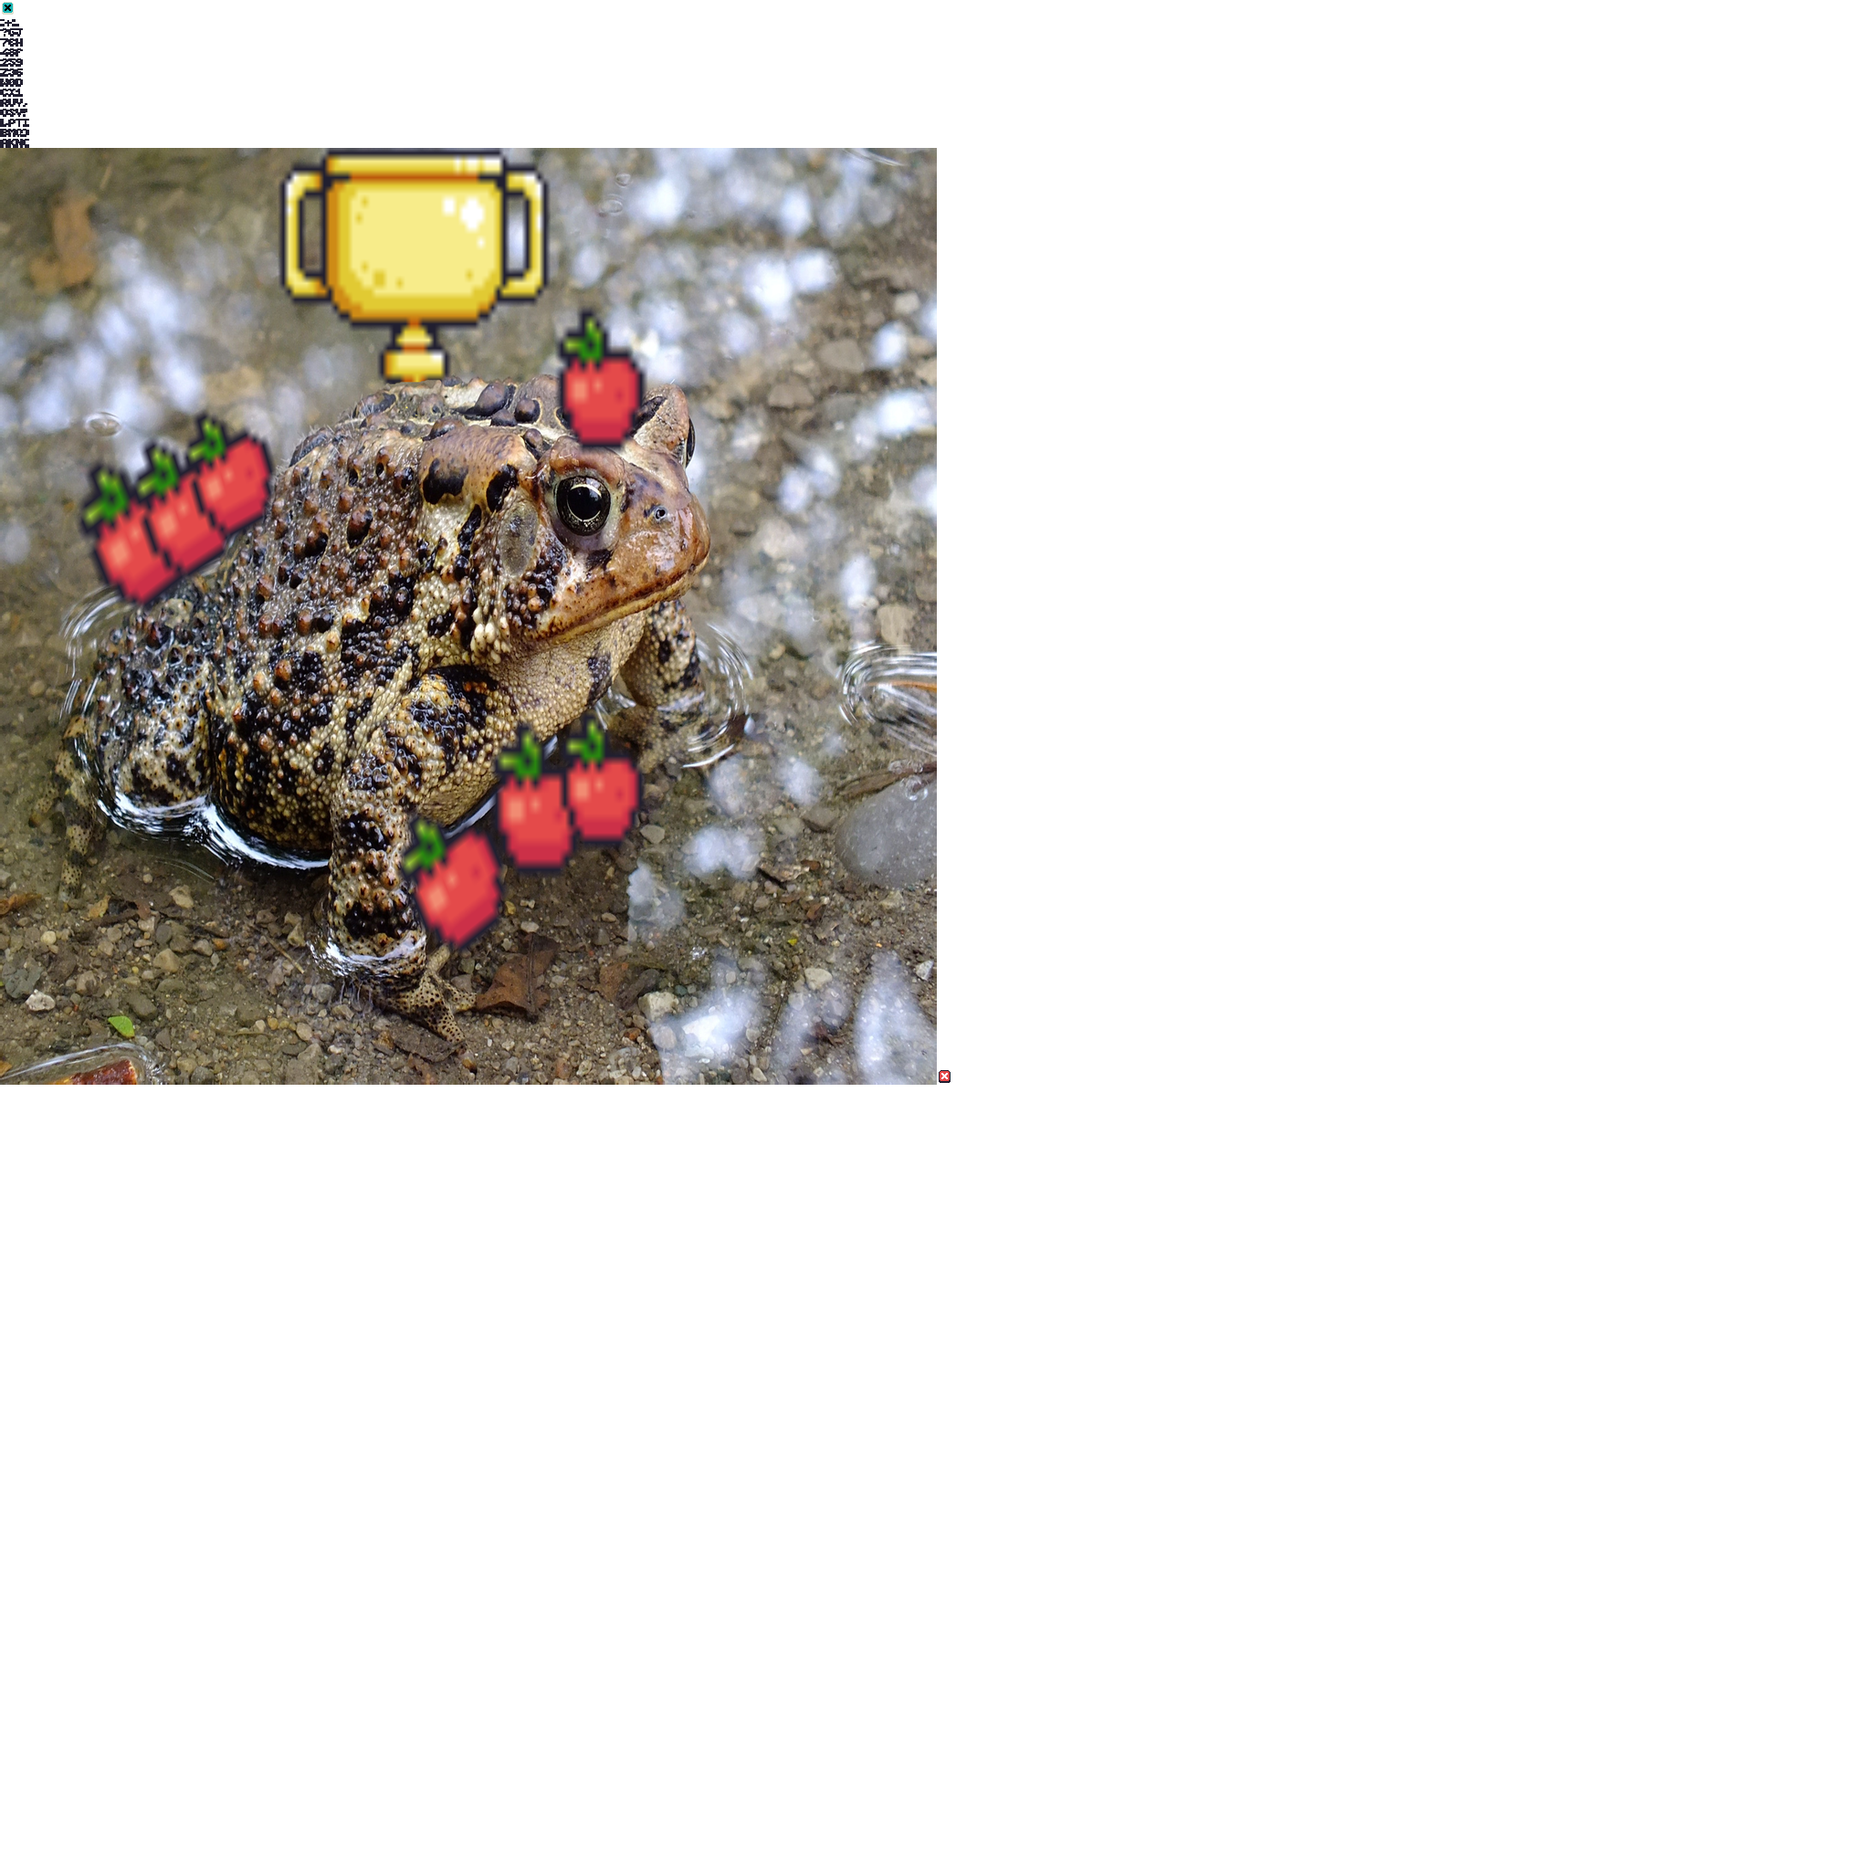
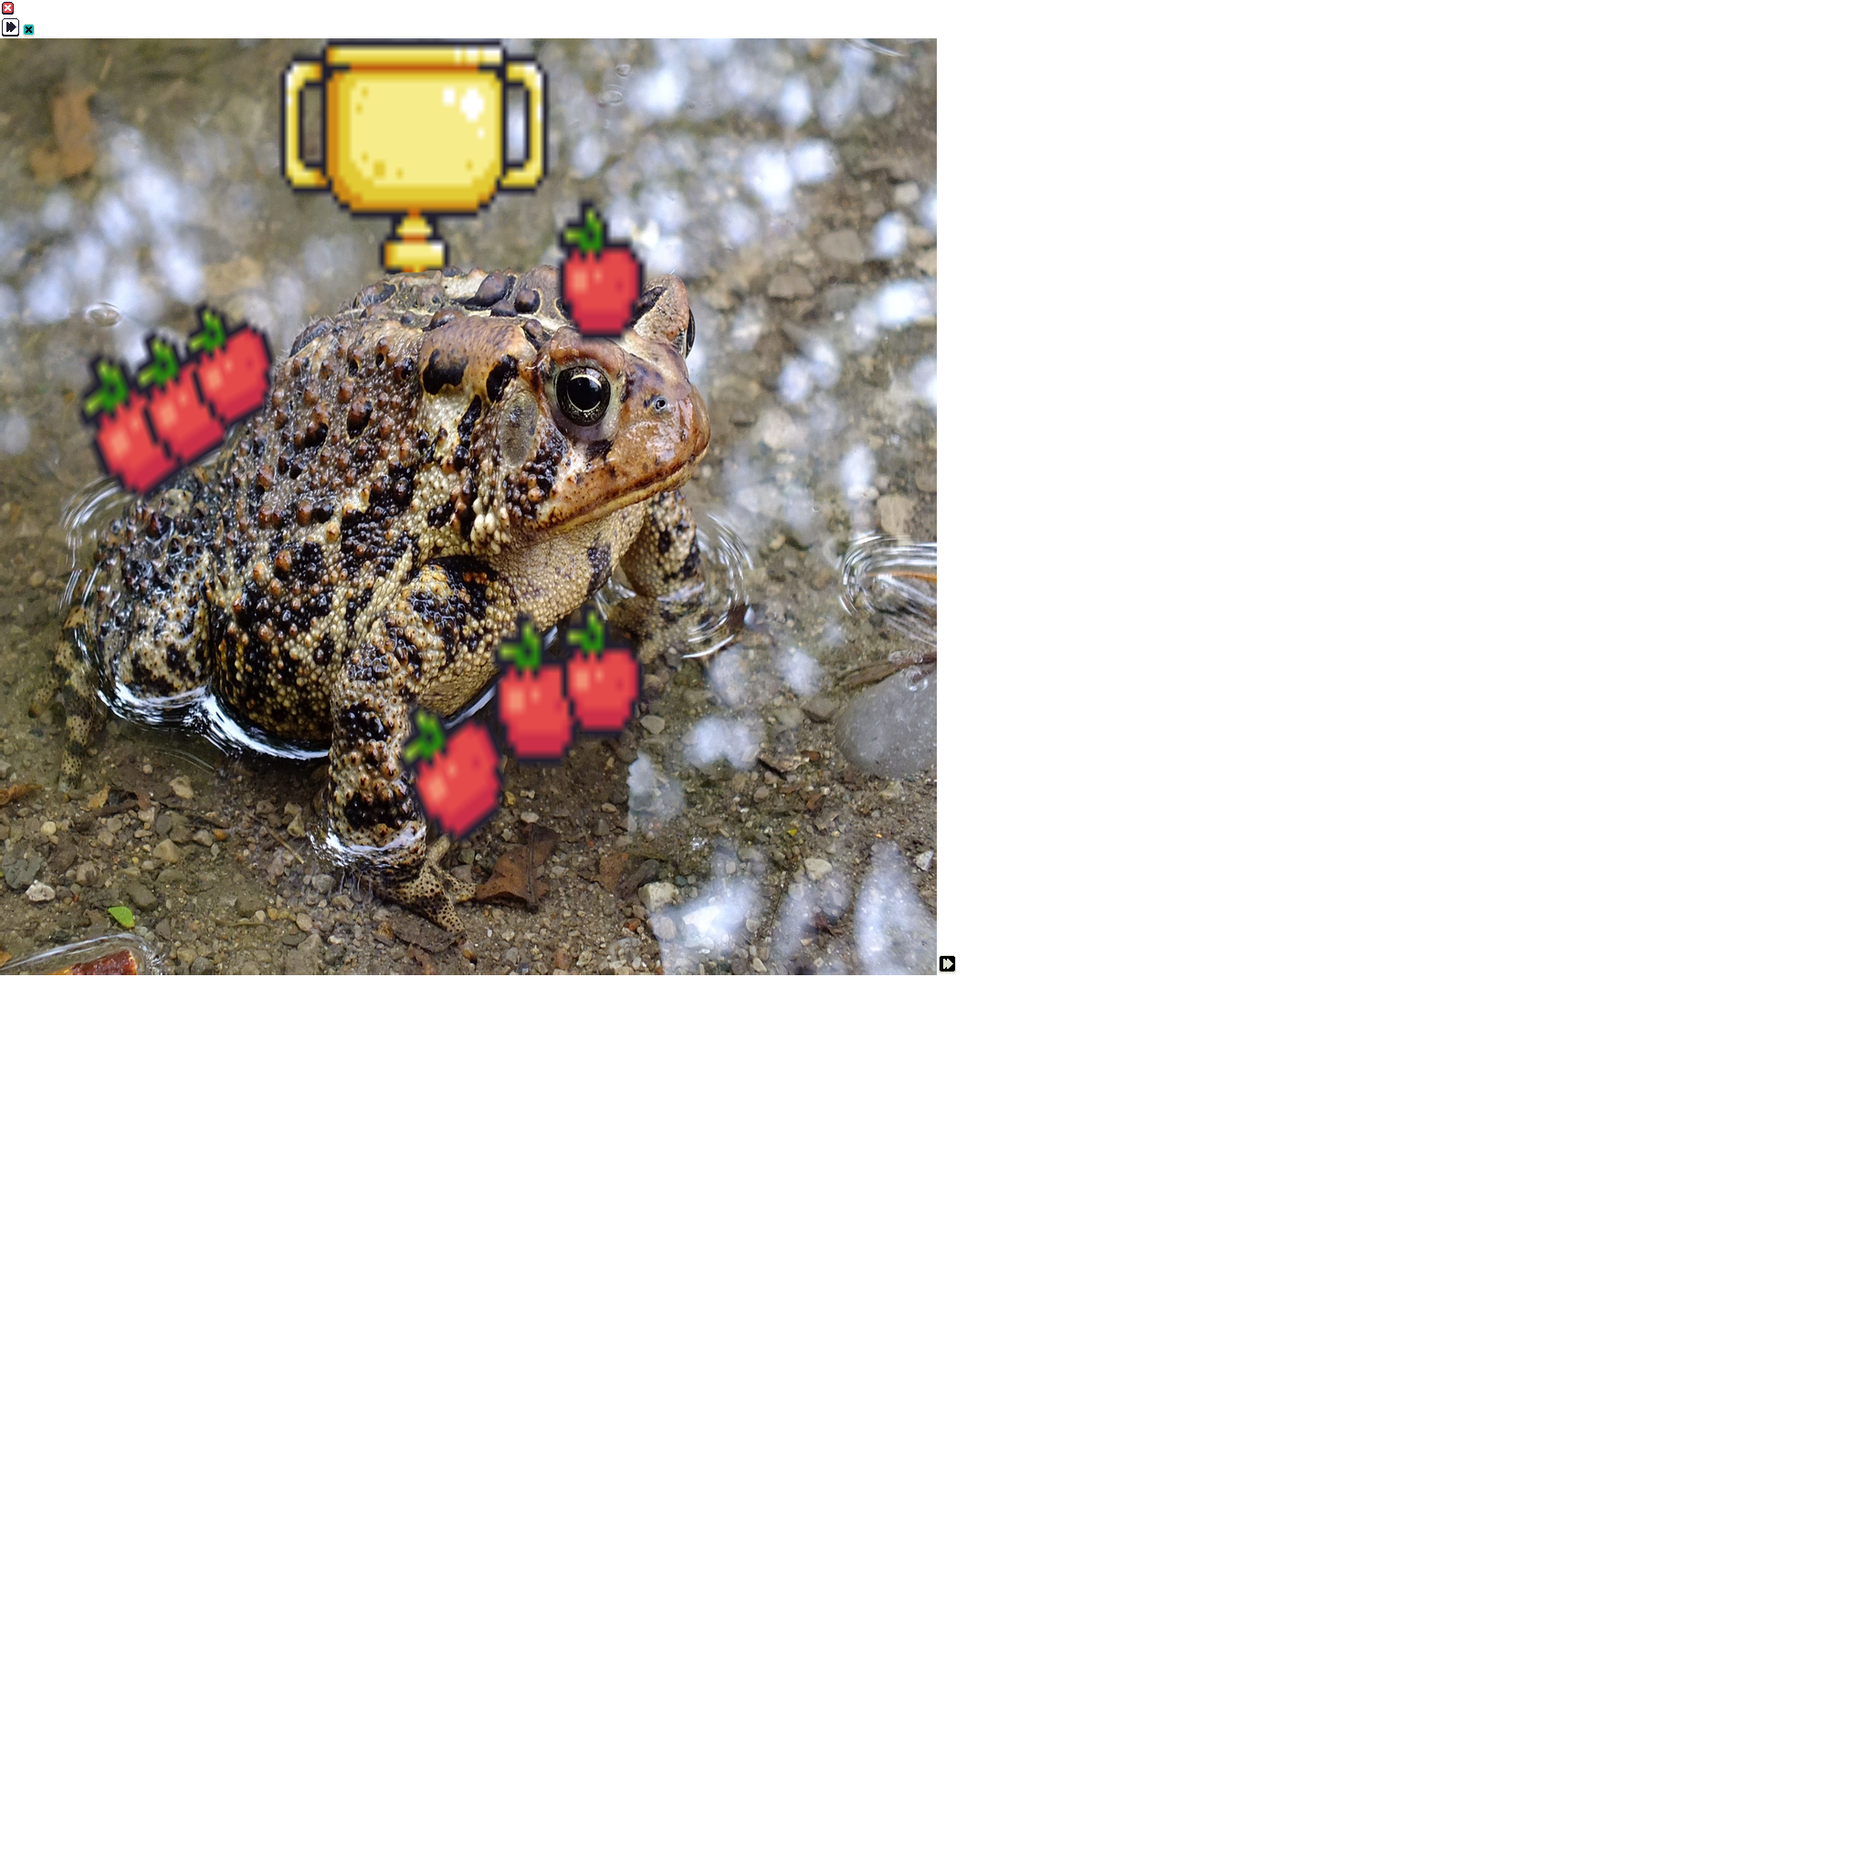
Second level creation

Changed region(s): [[0.0, 0.0, 0.5312, 0.5938]]

diff --git a/core/src/com/mygdx/game/Levels/Second_Level.java b/core/src/com/mygdx/game/Levels/Second_Level.java
@@ -1,0 +1,139 @@
+package com.mygdx.game.Levels;
+
+import com.badlogic.gdx.Gdx;
+import com.badlogic.gdx.Screen;
+import com.badlogic.gdx.audio.Music;
+import com.badlogic.gdx.graphics.OrthographicCamera;
+import com.badlogic.gdx.graphics.g2d.SpriteBatch;
+import com.badlogic.gdx.maps.MapObjects;
+import com.badlogic.gdx.maps.tiled.TiledMap;
+import com.badlogic.gdx.maps.tiled.TmxMapLoader;
+import com.badlogic.gdx.maps.tiled.renderers.OrthogonalTiledMapRenderer;
+import com.badlogic.gdx.physics.box2d.Box2DDebugRenderer;
+import com.badlogic.gdx.utils.ScreenUtils;
+import com.mygdx.game.Level_maker.Collectables.Items;
+import com.mygdx.game.Level_maker.EndGoal.Finish;
+import com.mygdx.game.Level_maker.Level_maker;
+import com.mygdx.game.Level_maker.Player;
+import com.mygdx.game.MyGdxGame;
+import com.mygdx.game.UI.DeathScene;
+import com.mygdx.game.UI.Victory;
+
+public class Second_Level implements Screen {
+    final MyGdxGame game;
+    Music music;
+    SpriteBatch batch;
+    OrthographicCamera camera;
+    OrthogonalTiledMapRenderer mapRender;
+    MapObjects mapObjects;
+    MapObjects Danger;
+    Box2DDebugRenderer debugRenderer;
+    TiledMap map;
+    Level_maker level;
+    Player player;
+    Items items;
+    Finish finish;
+    private final float[][] appleCoordinates = {{300,250}};
+
+
+    public Second_Level(final MyGdxGame game) {
+
+
+        this.game = game;
+        Gdx.graphics.setContinuousRendering(true);
+        music = Gdx.audio.newMusic(Gdx.files.internal("audio/The Empire Of Toads.mp3"));
+
+        music.setVolume(0.000000005f);
+        music.setLooping(true);
+
+
+        batch = new SpriteBatch();
+        level = new Level_maker("LEVEL_1.tmx");
+        finish = new Finish(level.getWorld(), 210, 208);
+
+
+        items = new Items(level, batch, appleCoordinates);
+        player = new Player(level.getWorld(), 1800, 208);
+        map = new TmxMapLoader().load("LEVEL_2.tmx");
+        mapObjects = map.getLayers().get("physics").getObjects();
+        Danger = map.getLayers().get("Damage").getObjects();
+        level.parseTiledObjectLayer(mapObjects, "Physics");
+        level.parseTiledObjectLayer(Danger, "Damage");
+        debugRenderer = new Box2DDebugRenderer();
+        mapRender = new OrthogonalTiledMapRenderer(map);
+        camera = level.getCamera();
+
+
+        camera.setToOrtho(false, 1200, 800);
+        camera.update();
+
+    }
+
+
+    @Override
+    public void show() {
+
+    }
+
+    @Override
+    public void render(float delta) {
+        ScreenUtils.clear(1, 1, 1, 1);
+        music.play();
+        batch.begin();
+        player.render(batch);
+        mapRender.setView(camera);
+
+        Gdx.app.log("Game",game.getScreen().toString());
+
+        camera.position.set(player.CameraCordsX(), player.CameraCordsY(), 0);
+        camera.zoom = 0.25f;
+        mapRender.render();
+        finish.render(batch);
+
+        finish.end();
+        camera.update();
+        items.render();
+
+
+        //debugRenderer.render(level.getWorld(), camera.combined);
+        level.getWorld().step(1 / 15f, 6, 2);
+        batch.end();
+        if (player.getHealth() == 0) {
+            music.stop();
+            dispose();
+            game.setScreen(new DeathScene(game));
+        }
+        if (items.allApples() && finish.end()) {
+            music.stop();
+            dispose();
+            game.setScreen(new Victory(game));
+
+        }
+    }
+
+    @Override
+    public void resize(int width, int height) {
+
+    }
+
+    @Override
+    public void pause() {
+
+    }
+
+    @Override
+    public void resume() {
+
+    }
+
+    @Override
+    public void hide() {
+
+    }
+
+    @Override
+    public void dispose() {
+
+    }
+}
+

diff --git a/core/src/com/mygdx/game/Level_maker/Player.java b/core/src/com/mygdx/game/Level_maker/Player.java
@@ -11,7 +11,6 @@ import com.badlogic.gdx.graphics.g2d.TextureAtlas;
 import com.badlogic.gdx.graphics.g2d.TextureRegion;
 import com.badlogic.gdx.math.Vector2;
 import com.badlogic.gdx.physics.box2d.*;
-import com.mygdx.game.Controllers.Movement;
 
 
 public class Player extends ControllerAdapter {
@@ -21,11 +20,11 @@ public class Player extends ControllerAdapter {
     private final Sound getJump;
     private int Health = 2;
     private int jumpCounter = 0;
-    PolygonShape playerShape;
-    FixtureDef fixtureDef;
+    private PolygonShape playerShape;
+    private FixtureDef fixtureDef;
     private final Body body;
     private boolean onTheGround;
-    private final Movement movement;
+
     private final TextureAtlas RunningPlayer;
     private final TextureAtlas IdlePlayer;
     private final TextureAtlas BIdlePlayer;
@@ -47,11 +46,11 @@ public class Player extends ControllerAdapter {
 
     enum Facing {LEFT, RIGHT}
 
-    Facing facing = Facing.LEFT;
+   private Facing facing = Facing.LEFT;
 
     enum Player_state {Running, Staying, Jumping, Falling, DoubleJumping, Dying}
 
-    Player_state CurrentState = Player_state.Staying;
+    private Player_state CurrentState = Player_state.Staying;
     float elapsedTime;
 
 
@@ -103,7 +102,7 @@ public class Player extends ControllerAdapter {
         body.setFixedRotation(true);
         body.setUserData(0);
 
-        movement = new Movement(this);
+
 
 
     }
@@ -119,10 +118,10 @@ public class Player extends ControllerAdapter {
         Vector2 vel = this.body.getLinearVelocity();
         Vector2 pos = this.body.getPosition();
 
-        Gdx.app.log("Player", onTheGround + " " + jumpCounter);
-        Gdx.app.log("Player.position", vel.x + " " + vel.y);
-////        Gdx.app.log("State",CurrentState.toString());
-//        Gdx.app.log("Coords", this.body.getPosition().toString());
+//        Gdx.app.log("Player", onTheGround + " " + jumpCounter);
+//        Gdx.app.log("Player.position", vel.x + " " + vel.y);
+//////        Gdx.app.log("State",CurrentState.toString());
+////        Gdx.app.log("Coords", this.body.getPosition().toString());
 
         // movement.start();
 
@@ -154,6 +153,7 @@ public class Player extends ControllerAdapter {
                 jumpCounter++;
                 getJump.play(0.1f);
             } else if (Gdx.input.isKeyJustPressed(Input.Keys.W) && jumpCounter == 1 || Gdx.input.isKeyJustPressed(Input.Keys.UP) && jumpCounter == 1 || Gdx.input.justTouched() && jumpCounter == 1 || Gdx.input.isKeyJustPressed(Input.Keys.BUTTON_A) && jumpCounter == 1) {
+                this.body.setLinearVelocity(vel.x,0);
                 this.body.applyLinearImpulse(0, 2000f, pos.x, pos.y, true);
                 CurrentState = Player_state.DoubleJumping;
                 Gdx.app.log("Pressed", "Pressed");

diff --git a/core/src/com/mygdx/game/UI/Victory.java b/core/src/com/mygdx/game/UI/Victory.java
@@ -8,26 +8,23 @@ import com.badlogic.gdx.scenes.scene2d.Stage;
 import com.badlogic.gdx.scenes.scene2d.ui.*;
 import com.badlogic.gdx.scenes.scene2d.utils.ClickListener;
 import com.badlogic.gdx.utils.Align;
-import com.badlogic.gdx.utils.Scaling;
-import com.badlogic.gdx.utils.viewport.ScreenViewport;
 import com.badlogic.gdx.utils.viewport.StretchViewport;
-import com.mygdx.game.Level_maker.Level_Wrapper;
+import com.mygdx.game.Levels.First_Level;
+import com.mygdx.game.Levels.Second_Level;
 import com.mygdx.game.MyGdxGame;
-
-import static com.badlogic.gdx.scenes.scene2d.Touchable.enabled;
 
 public class Victory implements Screen {
     private final MyGdxGame game;
     private final Stage stage;
     private final Skin skin;
-    public Victory(final MyGdxGame game){
+
+    public Victory(final MyGdxGame game) {
         this.game = game;
-        stage = new Stage(new StretchViewport(1024,1024));
+        stage = new Stage(new StretchViewport(1024, 1024));
         skin = new Skin(Gdx.files.internal("victorySkin.json"));
         Gdx.input.setInputProcessor(stage);
 
         Table table = new Table();
-        table.setTouchable(enabled);
         table.setFillParent(true);
 
         Stack stack = new Stack();
@@ -36,6 +33,10 @@ public class Victory implements Screen {
         stack.addActor(image);
 
         Table table1 = new Table();
+        table1.padLeft(0.0f);
+        table1.padRight(0.0f);
+        table1.padTop(0.0f);
+        table1.padBottom(5.0f);
         table1.align(Align.bottom);
 
         Button button = new Button(skin);
@@ -43,16 +44,30 @@ public class Victory implements Screen {
         button.addListener(new ClickListener() {
             @Override
             public void clicked(InputEvent event, float x, float y) {
-               Gdx.app.exit();
+                game.setScreen(new MainMenu(game));
+                dispose();
 
             }
         });
-        table1.add(button).align(Align.bottom).size(45.0f);
+        table1.add(button).size(45.0f);
+
+        button = new Button(skin, "next");
+        button.addListener(new ClickListener() {
+            @Override
+            public void clicked(InputEvent event, float x, float y) {
+                game.setScreen(new Second_Level(game));
+                dispose();
+
+            }
+        });
+        table1.add(button).spaceLeft(20.0f).size(45.0f);
         stack.addActor(table1);
         table.add(stack);
         stage.addActor(table);
 
+
     }
+
     @Override
     public void show() {
 
@@ -88,7 +103,7 @@ public class Victory implements Screen {
 
     @Override
     public void dispose() {
-    stage.dispose();
-    stage.dispose();
+        skin.dispose();
+        stage.dispose();
     }
 }

diff --git a/core/src/com/mygdx/game/UI/DeathScene.java b/core/src/com/mygdx/game/UI/DeathScene.java
@@ -13,7 +13,7 @@ import com.badlogic.gdx.scenes.scene2d.utils.ClickListener;
 import com.badlogic.gdx.utils.Align;
 import com.badlogic.gdx.utils.Scaling;
 import com.badlogic.gdx.utils.viewport.StretchViewport;
-import com.mygdx.game.Level_maker.Level_Wrapper;
+import com.mygdx.game.Levels.First_Level;
 import com.mygdx.game.MyGdxGame;
 
 public class DeathScene extends ScreenAdapter implements Screen   {
@@ -34,7 +34,7 @@ public class DeathScene extends ScreenAdapter implements Screen   {
                                  switch (keycode) {
                                      case Input.Keys.BUTTON_A:
                                      case Input.Keys.SPACE:
-                                         game.setScreen(new Level_Wrapper(game));
+                                         game.setScreen(new First_Level(game));
                                          dispose();
                                          break;
                                      case Input.Keys.BUTTON_X:
@@ -67,7 +67,7 @@ public class DeathScene extends ScreenAdapter implements Screen   {
        button.addListener(new ClickListener() {
            @Override
            public void clicked(InputEvent event, float x, float y) {
-               game.setScreen(new Level_Wrapper(game));
+               game.setScreen(new First_Level(game));
                dispose();
 
            }

diff --git a/core/src/com/mygdx/game/UI/MainMenu.java b/core/src/com/mygdx/game/UI/MainMenu.java
@@ -10,20 +10,21 @@ import com.badlogic.gdx.scenes.scene2d.ui.*;
 import com.badlogic.gdx.scenes.scene2d.utils.ClickListener;
 import com.badlogic.gdx.utils.Align;
 import com.badlogic.gdx.utils.viewport.StretchViewport;
-import com.mygdx.game.Level_maker.Level_Wrapper;
+import com.mygdx.game.Levels.First_Level;
+import com.mygdx.game.Levels.Second_Level;
 import com.mygdx.game.MyGdxGame;
 
 public class MainMenu implements Screen {
     final MyGdxGame game;
     Boolean start_the_game = false;
-    Level_Wrapper levelWrapper;
+    First_Level levelWrapper;
     private Skin skin;
 
     private Stage stage;
 
     public MainMenu(final MyGdxGame game) {
         this.game = game;
-        levelWrapper = new Level_Wrapper(game);
+        levelWrapper = new First_Level(game);
         stage = new Stage(new StretchViewport(600,600));
         skin = new Skin(Gdx.files.internal("skin.json"));
         Gdx.input.setInputProcessor(stage);
@@ -80,7 +81,7 @@ public class MainMenu implements Screen {
         Gdx.gl.glClearColor(1.0f, 1.0f, 1.0f, 1.0f);
         Gdx.gl.glClear(GL20.GL_COLOR_BUFFER_BIT);
         if (start_the_game.equals(true)) {
-            game.setScreen(new Level_Wrapper(game));
+            game.setScreen(new Second_Level(game));
             dispose();
         }
         stage.act();

diff --git a/core/src/com/mygdx/game/Levels/First_Level.java b/core/src/com/mygdx/game/Levels/First_Level.java
@@ -1,4 +1,4 @@
-package com.mygdx.game.Level_maker;
+package com.mygdx.game.Levels;
 
 import com.badlogic.gdx.Gdx;
 import com.badlogic.gdx.Screen;
@@ -13,11 +13,13 @@ import com.badlogic.gdx.physics.box2d.Box2DDebugRenderer;
 import com.badlogic.gdx.utils.ScreenUtils;
 import com.mygdx.game.Level_maker.Collectables.Items;
 import com.mygdx.game.Level_maker.EndGoal.Finish;
+import com.mygdx.game.Level_maker.Level_maker;
+import com.mygdx.game.Level_maker.Player;
 import com.mygdx.game.MyGdxGame;
 import com.mygdx.game.UI.DeathScene;
 import com.mygdx.game.UI.Victory;
 
-public class Level_Wrapper implements Screen {
+public class First_Level implements Screen {
     final MyGdxGame game;
     Music music;
     SpriteBatch batch;
@@ -35,7 +37,7 @@ public class Level_Wrapper implements Screen {
             {929, 811}, {765, 779}, {765, 859}, {643, 907}, {575, 923}, {669, 987}, {749, 971}, {678, 1034}, {571, 1067}, {502, 1003}, {500, 1131}, {447, 1162}, {419, 1227}};
 
 
-    public Level_Wrapper(final MyGdxGame game) {
+    public First_Level(final MyGdxGame game) {
 
 
         this.game = game;
